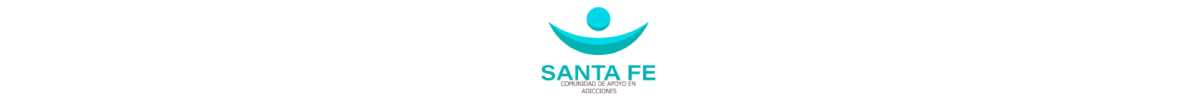
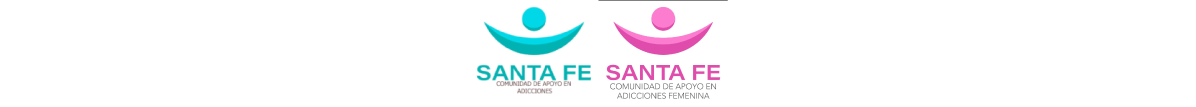
upload

Changed region(s): [[0.4022, 0.0561, 0.6187, 0.5327], [0.3712, 0.5888, 0.6187, 0.9252], [0.495, 0.0, 0.6187, 0.028]]

diff --git a/index.html b/index.html
@@ -9,6 +9,7 @@
     <link href="https://cdn.jsdelivr.net/npm/bootstrap@5.0.1/dist/css/bootstrap.min.css" rel="stylesheet" integrity="sha384-+0n0xVW2eSR5OomGNYDnhzAbDsOXxcvSN1TPprVMTNDbiYZCxYbOOl7+AMvyTG2x" crossorigin="anonymous">
     <link rel="stylesheet" href="https://cdn.jsdelivr.net/npm/bootstrap-icons@1.5.0/font/bootstrap-icons.css">
     <link rel="stylesheet" type="text/css" href="carousel.css">
+    <script src="https://kit.fontawesome.com/eb496ab1a0.js" crossorigin="anonymous"></script>
     
 
     <title>Santa Fe</title>
@@ -46,7 +47,7 @@
         <input class="form-control me-2" type="email" placeholder="Correo Electronico" aria-label="emial">
         <button class="btn btn-outline-primary" type="button">Suscribete</button>
       </form>-->
-      <a href="https://api.whatsapp.com/send?phone=593963463044&text=Hola%20quisiera%20mas%20informaci%C3%B3n"><i class="bi bi-whatsapp"></i></a>
+      <a href="https://api.whatsapp.com/send?phone=593963463044&text=Hola%20quisiera%20mas%20informaci%C3%B3n" target="_blank"><i class="bi bi-whatsapp"></i></a>
 
     </div>
   </div>
@@ -79,8 +80,8 @@
     <!-- INTRO -->
 
     <section class="w-50 mx-auto text-center pt-5" id="intro">
-      <h1 class="p-3 fs-2 border-top border-3"><span class="text-info"> Comunidad de apoyo en adicciones</span></h1>
-      <p class="p-3 fs-4"><span class="text-info">CENTRO DE ADICCIONES Y TRATAMIENTO</span> Contamos con instalaciones de primera. Contactanos vía What´s App o llamada al numero: 0963463044</p>
+      <h1 class="p-3 fs-2 border-top border-3"><span class="text-info"> Comunidad de apoyo en dependencias</span></h1>
+      <p class="p-3 fs-4"><span class="text-info">CENTRO DE DEPENDENCIAS Y TRATAMIENTO</span> Contamos con instalaciones de primera. Contactanos vía What´s App o llamada al numero: 0963463044 / 0995340216</p>
 
     </section>
 
@@ -144,7 +145,14 @@
 Terapia que pone en práctica el centro se basa en el modelo de Minnesota, cuyos valores son, entre otras cosas, un tratamiento personalizado y global en todos los niveles de la persona, emocional y física; abstinencia total; la creación de una comunidad de apoyo En personas con mismos problemas y apoyo constante de la familia.</p>
       </div>
       <div class="mt-5 text-center">
+        <p class="fs-4 text-center text-info" >Centro Masculino</p>
         <img class="img-fluid" src="./img/nosotros.png" alt="equipo">
+      </div>
+
+        </div>
+      <div class="mt-5 text-center">
+        <p class="fs-4 text-center text-info" >Centro Femenino</p>
+        <img class="img-fluid" src="./img/nosotros2.png" alt="equipo">
       </div>
 
       <div id="local" class="border-top border-2">
@@ -153,7 +161,7 @@ Terapia que pone en práctica el centro se basa en el modelo de Minnesota, cuyos
           <div class="wrapper">
             <h2>Ubicado valle de los chillos, San Rafael</h2>
             <h2 class="text-primary mb-4" id="typewriter"></h2>
-            <p class="fs-5 text-body">Elejimos esta bella ciudad por su ubicación, su clima.</p>
+            <p class="fs-5 text-body">Elejimos esta bella ciudad por su ubicación y su clima.</p>
             <section class="d-flex" id="numeros-local">
               <div>
                 <p class="text-info fs-5">248</p>
@@ -187,8 +195,10 @@ Terapia que pone en práctica el centro se basa en el modelo de Minnesota, cuyos
       <div class="container" id="contenedor-formulario">
         <div class="titulo-formulario" class="text-center mb-4">
           <div><img src="./img/foot.png" alt="contacto" class="img-fluid"></div>
-          <h2>Contactos</h2>
-          <p class="fs-5">Estamos aqui para hacer realidad tus proyectos</p>
+          <h2>Contactos 0963463044 / 0995340216</h2>
+          <p class="fs-5">Valle de los chillos San Rafael
+LUNES A VIERNES 09:00 - 19:00
+SABADO-DOMINGO 10:00 - 14:00 </p>
         </div>
         <form action="">
            <div class="form-group">
@@ -211,13 +221,17 @@ Terapia que pone en práctica el centro se basa en el modelo de Minnesota, cuyos
 
      </section>
 
+     <a href="https://api.whatsapp.com/send?phone=+593963463044" class="btn-wsp" target="_blank">
+      <i class="fa fa-whatsapp icono"></i>
+  </a>
+
      <!-- PIE DE LA PAGINA -->
 
      <footer class="w-100 d-flex align-items-center justify-content-center flex-wrap">
-      <p class="fs-5 px-3 pt-3">Santa fe &copy; Todos Los Derechos Reservados 2021 / Contactanos 0963463044</p>
+      <p class="fs-5 px-3 pt-3">Santa fe &copy; Todos Los Derechos Reservados 2021 / Contactanos 0963463044 / 0995340216</p>
       <div id="iconos"></div>
-      <a href="https://www.facebook.com/profile.php?id=100009937938077"><i class=" bi bi-facebook "></i></a>
-      <a href="https://api.whatsapp.com/send?phone=593963463044&text=Hola%20quisiera%20mas%20informaci%C3%B3n"><i class=" bi bi-whatsapp"></i></a>
+      <a href="https://www.facebook.com/profile.php?id=100009937938077" target="_blank"><i class=" bi bi-facebook "></i></a>
+      <a href="https://api.whatsapp.com/send?phone=593963463044&text=Hola%20quisiera%20mas%20informaci%C3%B3n" target="_blank"><i class=" bi bi-whatsapp"></i></a>
      
      </footer>
 

diff --git a/carousel.css b/carousel.css
@@ -198,3 +198,31 @@ footer p{
         text-align: center;
     }
 }
+
+  
+.btn-wsp{
+    position:fixed;
+    width:60px;
+    height:60px;
+    line-height: 63px;
+    bottom:25px;
+    right:25px;
+    background:#25d366;
+    color:#FFF;
+    border-radius:50px;
+    text-align:center;
+    font-size:35px;
+    box-shadow: 0px 1px 10px rgba(0,0,0,0.3);
+    z-index:100;
+    transition: all 300ms ease;
+}
+.btn-wsp:hover{
+    background: #20ba5a;
+}
+@media only screen and (min-width:320px) and (max-width:768px){
+    .btn-wsp{
+        width:63px;
+        height:63px;
+        line-height: 66px;
+    }
+}
